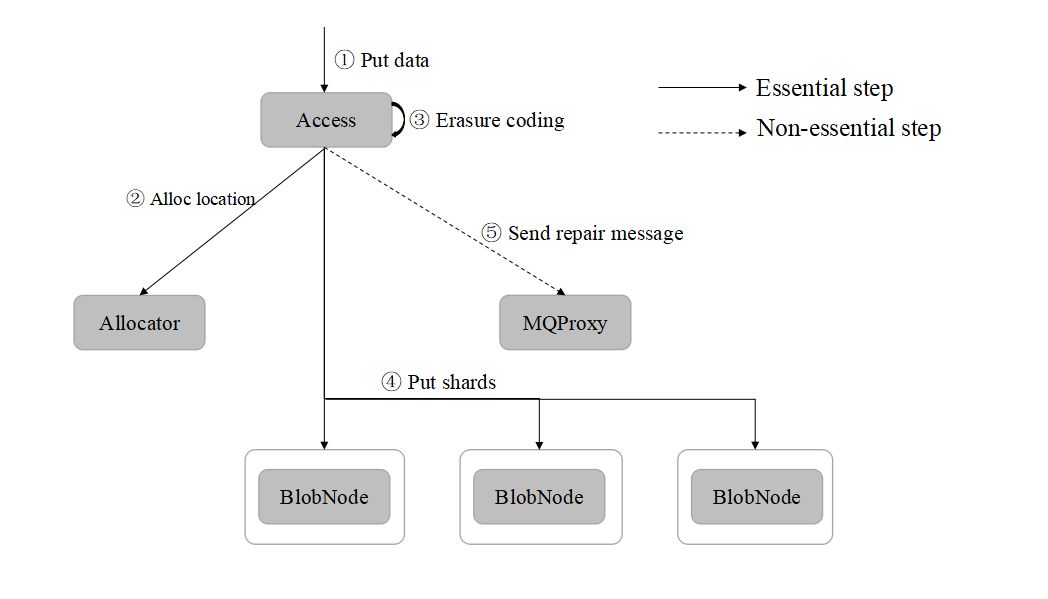
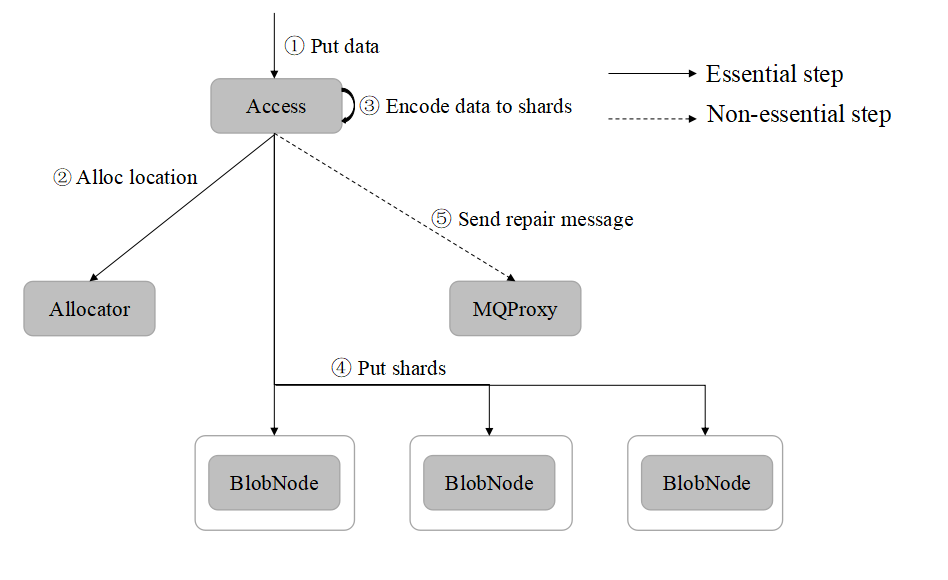
docs:change blobstore doc

diff --git a/docs/source/design/blobstore.rst b/docs/source/design/blobstore.rst
@@ -1,11 +1,28 @@
 纠删码子系统
 =======================
 
-纠删码子系统(BlobStore)是一个高可靠性、高可用、支持超大规模的分布式存储系统。采用纠删码中的Reed-Solomon编码，对比三副本，以更低的存储成本提供更高的数据耐久性保障，支持多种纠删码模式和多可用区部署，同时针对小文件做了专门优化，可满足不同业务场景的存储需求。
+纠删码子系统(BlobStore)是一个高可靠、高可用、低成本、支持超大规模(EB)的分布式存储系统。采用纠删码中的Reed-Solomon编码，对比三副本，以更低的存储成本提供更高的数据耐久性保障，支持多种纠删码模式和多可用区部署，同时针对小文件做了专门优化，可满足不同业务场景的存储需求。
 
 .. image:: pic/blobstore.png
    :align: center
    :alt: Blobstore Architecture
+
+
+.. csv-table::
+   :header: "模块",  "描述"
+
+   "Access",  "接入模块，对外提供数据读、写和删除接口"
+   "ClusterManager",  "元数据管理模块,负责集群管理和卷的生成"
+   "Allocator",  "clusterManager的代理模块，提供数据写入空间的分配"
+   "BlobNode",  "数据存储模块"
+   "Scheduler",  "异步任务调度中心，负责卷修补、迁移和回收任务的生成和调度"
+   "Worker",  "卷修补、迁移和回收任务任务执行的模块"
+   "MQProxy",  "修补和删除操作消息保存模块,用于后续异步执行"
+   "Tinker",  "修补和删除操作异步执行模块"
+
+
+
+
 
 系统特性
 --------------------------
